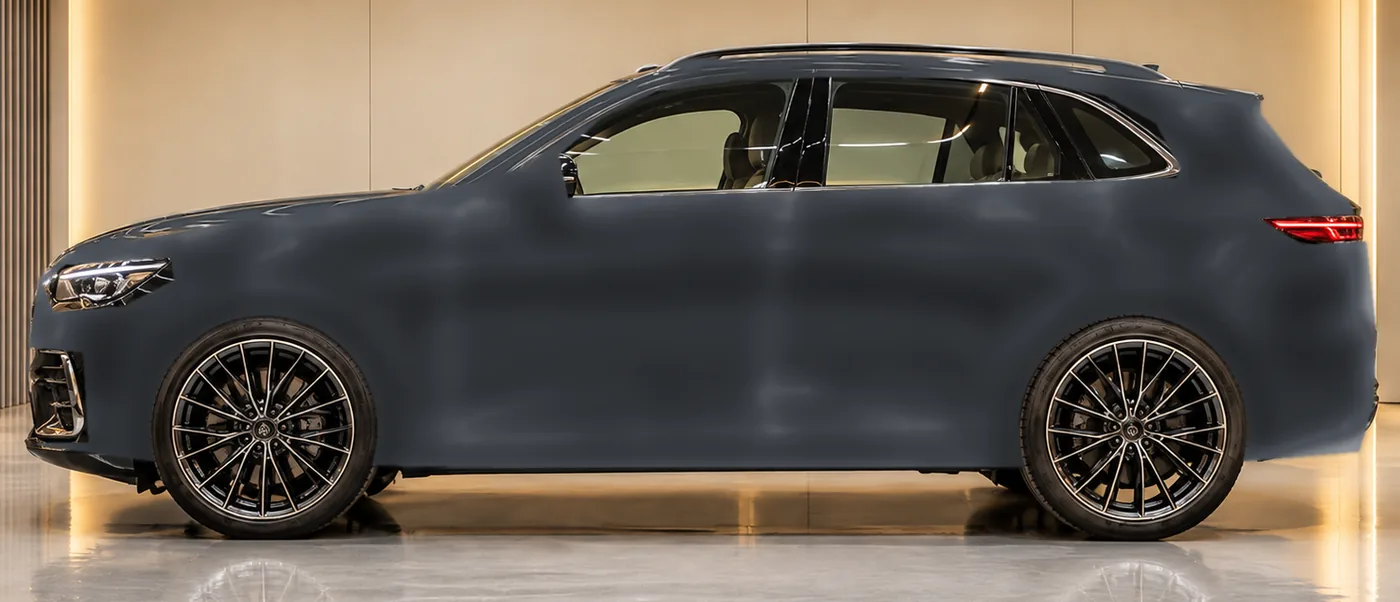
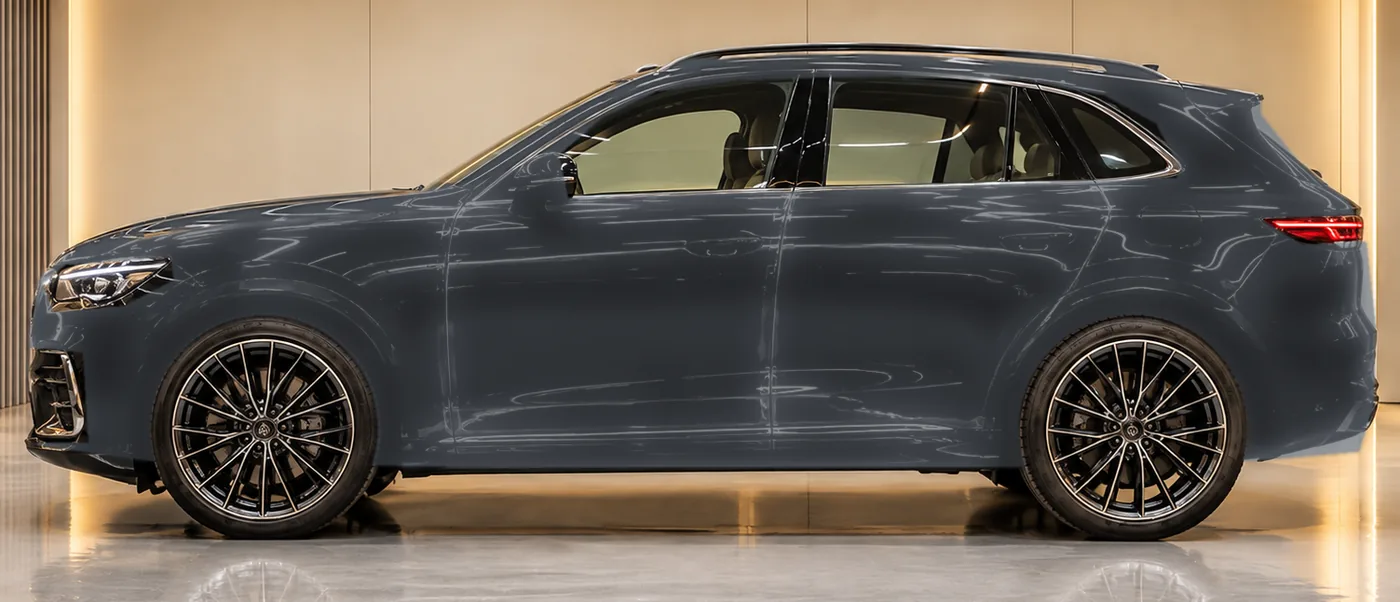
Графит сатин: чёткая форма кузова с приглушёнными бликами вместо размытия на всех трёх кузовах

diff --git a/index.html b/index.html
@@ -30,7 +30,7 @@
 <link rel="stylesheet" href="https://fonts.googleapis.com/css2?family=Overpass:wght@800&family=Ysabeau+Office:wght@300;400;500;600&family=Golos+Text:wght@400;500;600&display=swap">
 <link rel="preload" as="image" href="assets/ai/hero-studio.webp?v=20261027-1" media="(min-width:761px)" fetchpriority="high">
 <link rel="preload" as="image" href="assets/hero-m.webp?v=20261027-1" media="(max-width:760px)" fetchpriority="high">
-<link rel="stylesheet" href="styles.css?v=20261029-1">
+<link rel="stylesheet" href="styles.css?v=20261029-2">
 <script type="application/ld+json">
 {
   "@context": "https://schema.org",
@@ -353,7 +353,7 @@
       <button type="button" class="cv-tab" role="radio" aria-checked="false" tabindex="-1" data-m="suv" data-i="cv.m.suv">Джип</button>
     </div>
     <div class="cv-stage rv">
-      <img class="cv-img is-on" src="assets/cvet/sedan-nardo.webp?v=20261029-1" alt="Автомобиль после оклейки цветным полиуретаном" data-i-alt="cv.alt" width="1400" height="602" loading="lazy" decoding="async">
+      <img class="cv-img is-on" src="assets/cvet/sedan-nardo.webp?v=20261029-2" alt="Автомобиль после оклейки цветным полиуретаном" data-i-alt="cv.alt" width="1400" height="602" loading="lazy" decoding="async">
       <img class="cv-img" alt="" aria-hidden="true" width="1400" height="602" decoding="async">
     </div>
     <div class="cv-bar rv">
@@ -624,6 +624,6 @@
   <a class="st-ig" href="https://www.instagram.com/asmr_detailing_studio/" target="_blank" rel="noopener" aria-label="Instagram студии" data-i-aria="ig.aria"><svg aria-hidden="true"><use href="#ic-ig"/></svg></a>
 </nav>
 
-<script src="script.js?v=20261029-1" defer></script>
+<script src="script.js?v=20261029-2" defer></script>
 </body>
 </html>
